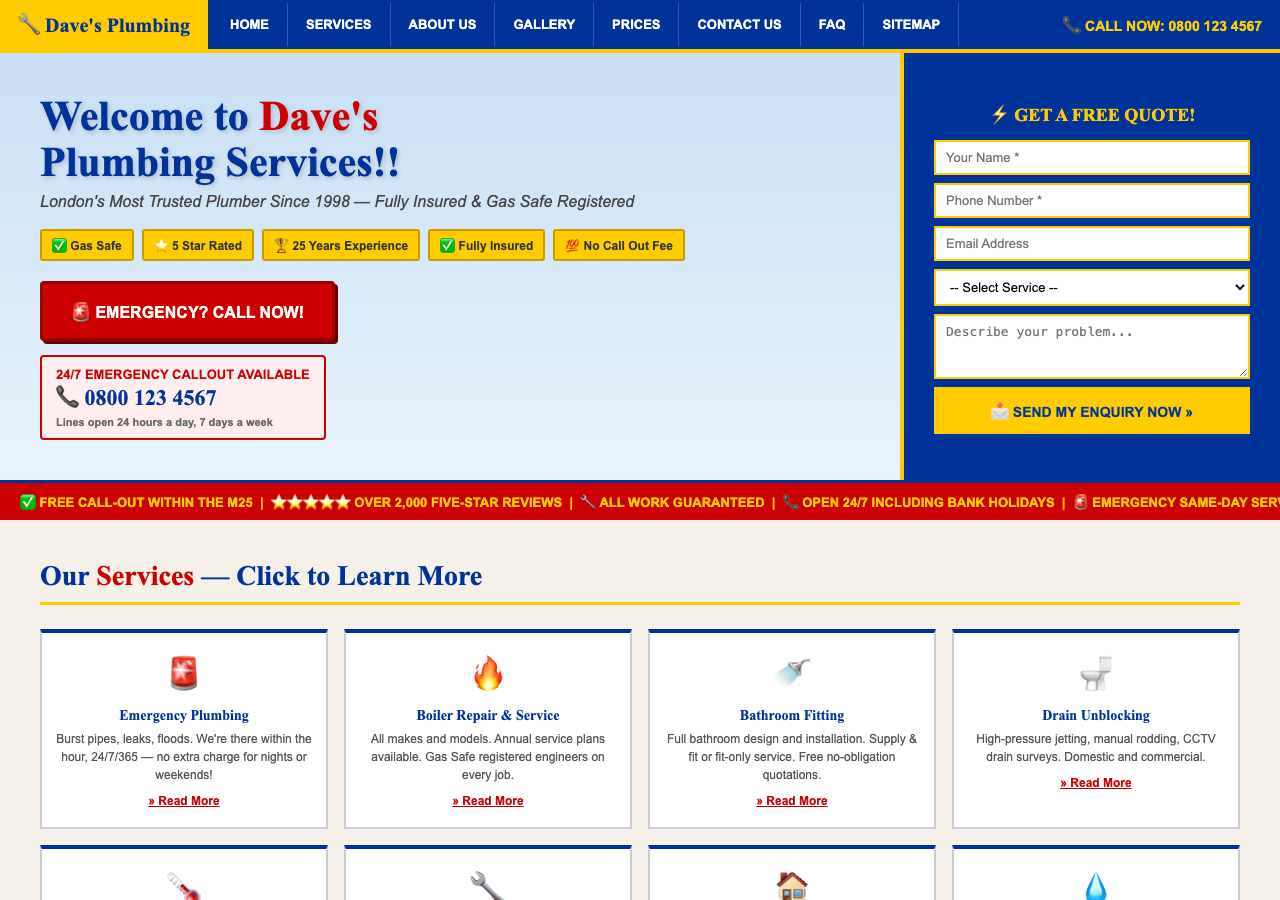
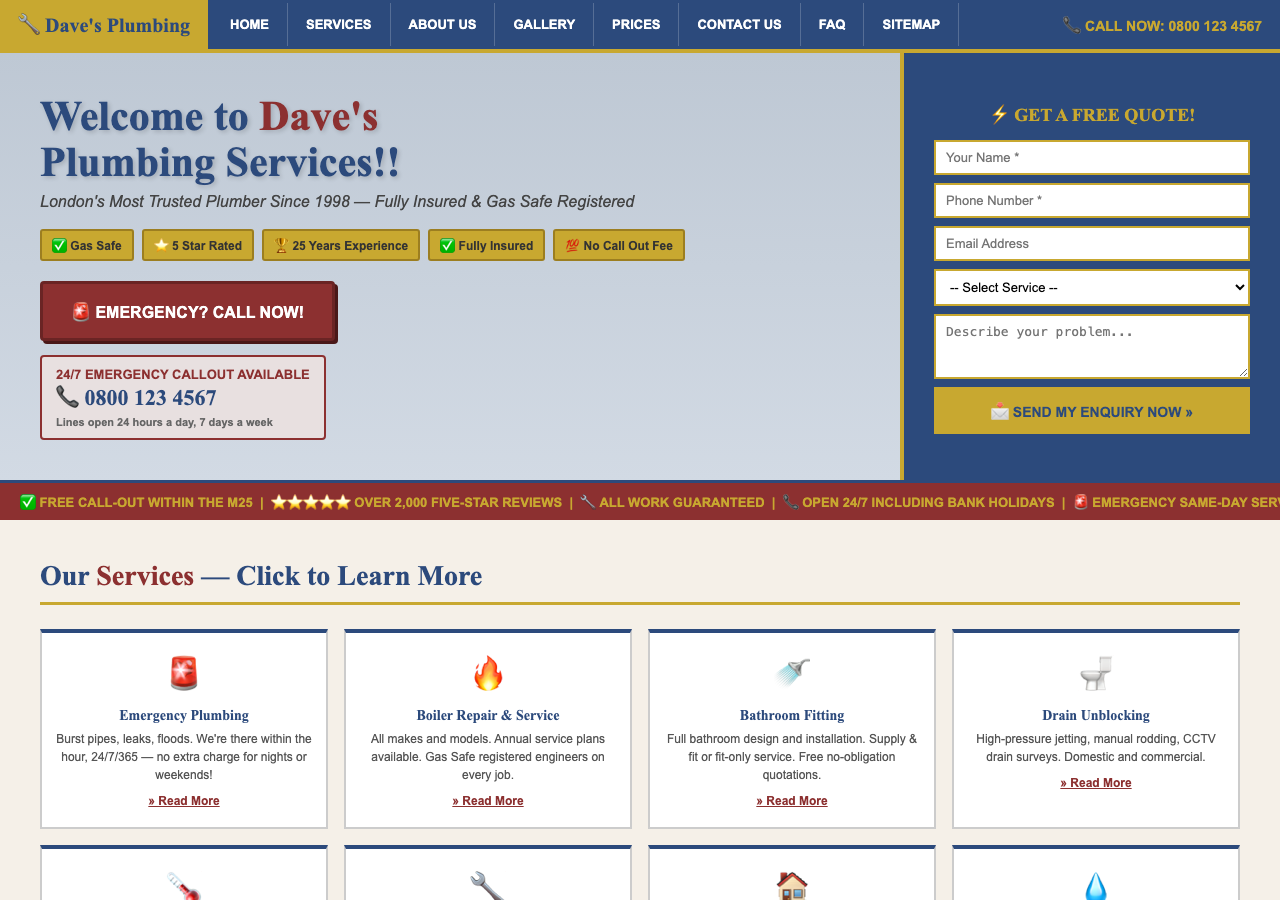
fix(showcase): swap before/after slider sides and mute before-website colours
- Old design now on left, redesign on right (swap beforeImage/afterImage props)
- Toned down before-website.png: bright #003399→#2c4a7c, #ffcc00→#c8a830,
  #cc0000→#8c3030 — less jarring contrast against the dark Falcon Designs UI

diff --git a/app/(main)/showcase/page.tsx b/app/(main)/showcase/page.tsx
@@ -394,10 +394,10 @@ export default function ShowcasePage() {
               className="border border-fd-border overflow-hidden"
             >
               <ImageComparison
-                beforeImage="/before-website.png"
-                afterImage="/after-website.png"
-                altBefore="Old plumber website — cluttered, dated design"
-                altAfter="Rebuilt by Falcon Designs — modern, high-converting"
+                beforeImage="/after-website.png"
+                afterImage="/before-website.png"
+                altBefore="Rebuilt by Falcon Designs — modern, high-converting"
+                altAfter="Old plumber website — cluttered, dated design"
               />
             </motion.div>
 
